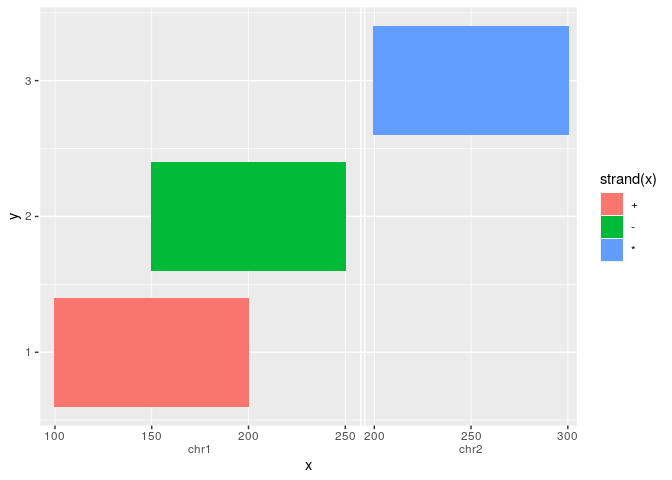
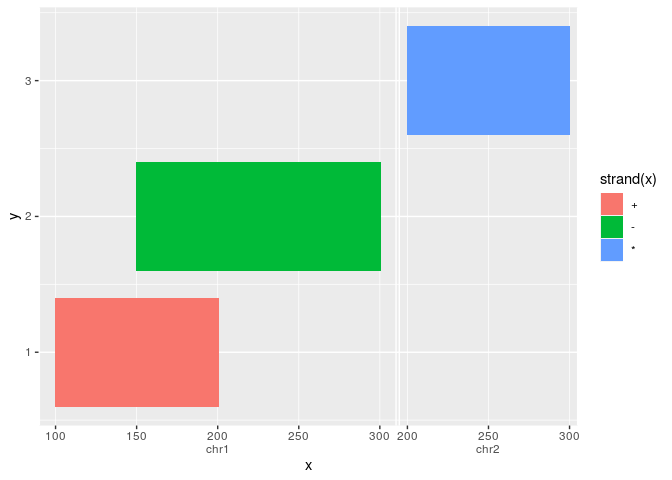
Update README

diff --git a/README.md b/README.md
@@ -8,14 +8,13 @@
 [![Lifecycle:
 experimental](https://img.shields.io/badge/lifecycle-experimental-orange.svg)](https://www.tidyverse.org/lifecycle/#experimental)
 [![Travis build
-status](https://travis-ci.org/teunbrand/ggnomics.svg?branch=BioC)](https://travis-ci.org/teunbrand/ggnomics)
+status](https://travis-ci.org/teunbrand/ggnomics.svg)](https://travis-ci.org/teunbrand/ggnomics)
 [![Codecov test
-coverage](https://codecov.io/gh/teunbrand/ggnomics/branch/BioC/graph/badge.svg)](https://codecov.io/gh/teunbrand/ggnomics?branch=BioC)
+coverage](https://codecov.io/gh/teunbrand/ggnomics/branch/BioC/graph/badge.svg)](https://codecov.io/gh/teunbrand/ggnomics)
 <!-- badges: end -->
 
-This branch of ggnomics explores how to integrate Bioconductor S4 class
-constructions and ggplot2 plotting system. Ideally, this would be made
-near seamless at some point. Practically, it is still a buggy mess.
+This packages offers tools to integrate Bioconductor S4 classes and the
+ggplot2 plotting system.
 
 ## Installation
 
@@ -24,21 +23,15 @@ You can install this experimental branch from
 
 ``` r
 # install.packages("devtools")
-devtools::install_github("teunbrand/ggnomics", ref = "BioC")
-```
-
-It only works with ‘ggplot2’ version \>3.3.0.9000, i.e. their master
-branch.
-
-``` r
-# install.packages("devtools")
-devtools::install_github("tidyverse/ggplot2")
+devtools::install_github("teunbrand/ggnomics")
 ```
 
 ## Example
 
 The main idea is that you would be able to plot S4 Vector classes as you
-would any other vector.
+would any other vector, without having to convert to base R or tidyverse
+data-structures first. Below is an example of how the `GRanges` class
+inside a `DataFrame` is handled.
 
 ``` r
 suppressPackageStartupMessages({
@@ -47,7 +40,7 @@ suppressPackageStartupMessages({
 })
 
 df <- DataFrame(
-  x = GRanges(c("chr1:100-200:+", "chr1:150-250:-", "chr2:200-300:*")),
+  x = GRanges(c("chr1:100-200:+", "chr1:150-300:-", "chr2:200-300:*")),
   y = 1:3
 )
 
@@ -56,17 +49,35 @@ g <- ggplot(df, aes(x, y, fill = strand(x))) +
 g
 ```
 
-<img src="man/figures/README-genomic_scale-1.png" width="60%" style="display: block; margin: auto;" />
+<img src="man/figures/README-genomic_scale-1.png" width="80%" style="display: block; margin: auto;" />
+
+## Explanation
+
+To showcase what happens in the example above notice a few things. Most
+noticeable is that the `GRanges` class is used as a valid position
+variable. You can also notice the new axis guide, that appropriately
+indicates the `seqnames` slot of the input.
+
+Because `geom_tile()` re-parametrises the data as a rectangle with
+`xmin` and `xmax` values, the `GRanges` object respectively uses it’s
+start- and end-positions depending on the context of the aesthetic’s
+name. This opens up a wide range of geoms to be compatible with ranged
+classes.
+
+The `aes(..., fill = strand(x))` statement uses ggplot2’s non-standard
+evaluation as you would expect with `base::data.frame`s. Furthermore,
+`strand(x)` evaluates to a `factor-Rle`, which is now a valid, mappable,
+discrete class.
 
 The data retains the S4 classes throughout the vast majority of plot
 building, allowing specialised geoms and stats to take advantage of
 this.
 
 ``` r
-layer_data(g)
+(ld <- layer_data(g))
 #>      fill              x y PANEL group           xmin           xmax ymin ymax
 #> 1 #F8766D chr1:100-200:+ 1     1    -1 chr1:100-200:+ chr1:100-200:+  0.6  1.4
-#> 2 #00BA38 chr1:150-250:- 2     1    -1 chr1:150-250:- chr1:150-250:-  1.6  2.4
+#> 2 #00BA38 chr1:150-300:- 2     1    -1 chr1:150-300:- chr1:150-300:-  1.6  2.4
 #> 3 #619CFF chr2:200-300:* 3     1    -1 chr2:200-300:* chr2:200-300:*  2.6  3.4
 #>   colour size linetype alpha width height
 #> 1     NA  0.1        1    NA     0    0.8
@@ -74,36 +85,35 @@ layer_data(g)
 #> 3     NA  0.1        1    NA     0    0.8
 ```
 
-## Working classes
+The trick here is that the S4 classes are protected from incompatible S3
+`data.frame` operations, such as `rbind()`, by being wrapped in their
+own `vctrs`-class. They still contain the beloved S4 classes though.
 
-Here is a list of classes that I’ve tested with:
+``` r
+class(ld$x)
+#> [1] "OakHorse"    "WoodenHorse" "vctrs_vctr"
+class(Nightfall(ld$x))
+#> [1] "GRanges"
+#> attr(,"package")
+#> [1] "GenomicRanges"
+```
 
-  - Rle
-  - IRanges
-  - GRanges
+## Footnotes
 
-## Likely advantages
+This package is still very much a work in progress. Since the
+Bioconductor ecosystem is rich with specialised infrastructure and
+classes, I haven’t managed to try and test every class. However, most
+things should work with `Rle`, `IRanges` and `GRanges` classes.
 
-Here is a list:
+Furthermore, not all ggplot2 features lend themselves well to S4 vectors
+yet: I’ve yet to devise a polar coordinate system and non-identity scale
+transformations. Also not all position adjustments or layer stats are
+expected to work perfectly.
 
-  - Grammar of graphics approach to plotting data
-  - Converting a DataFrame to be ggplot compatible will retain S4
-    classes
-  - Support for genomic scales
-  - Can be extended
-  - Layer data will remain S4 throughout the build process
-      - Which means geoms/stats/positions have access to the class
-
-## Known bugs
-
-Here is a list:
-
-  - Using GRanges as position unit is a tad slow
-  - Currently cannot represent non-integers on genomic scales.
-  - Doesn’t have a polar coordinate system
-  - No working List-like solution yet (e.g. IntegerList etc.)
-  - Mostly geared toward IRanges/GRanges and numerical-Rle classes at
-    this point, whether anything else will work is anyone’s guess
-  - No supported scale transformations so far
-  - If you even breathe too loudly in the general direction of your
-    screen, it will throw a hissyfit
+I’d also like to mention that this is not the only genomics-oriented
+ggplot package out there. Take a look at the
+[ggbio](https://www.bioconductor.org/packages/release/bioc/html/ggbio.html)
+package for instance. In my view, the main difference is that this
+package is not going to produce your pretty plots for you, but by
+extending ggplot2, this package allows the flexibility required to build
+your own genomics plots.
